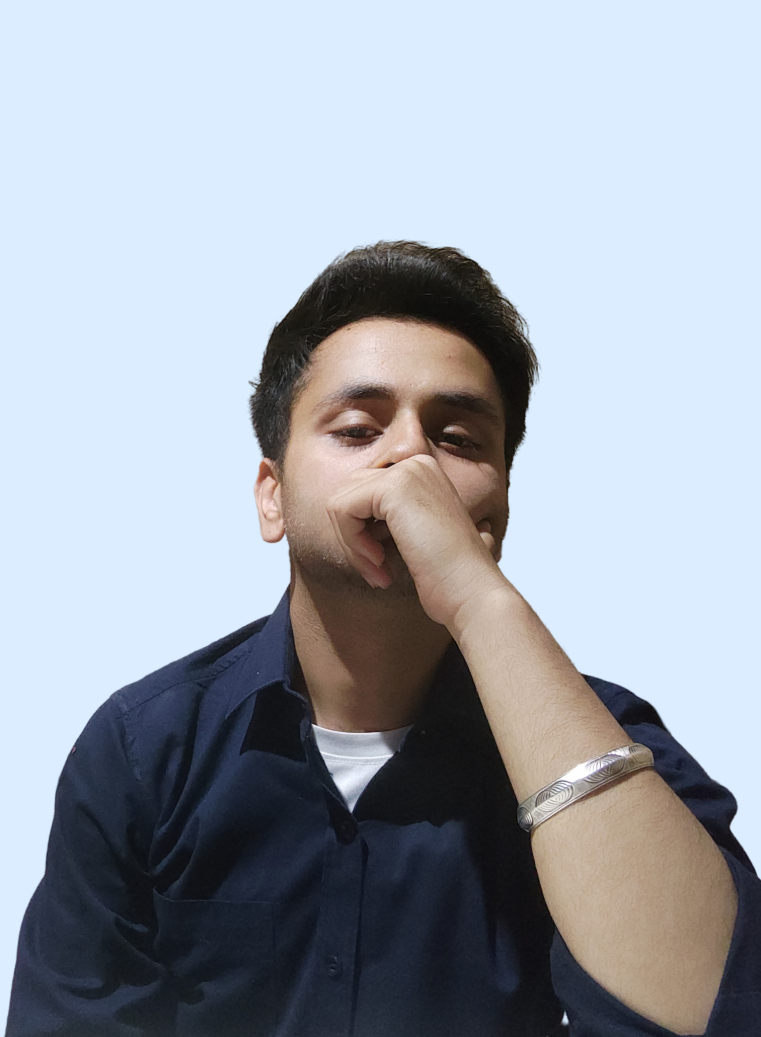
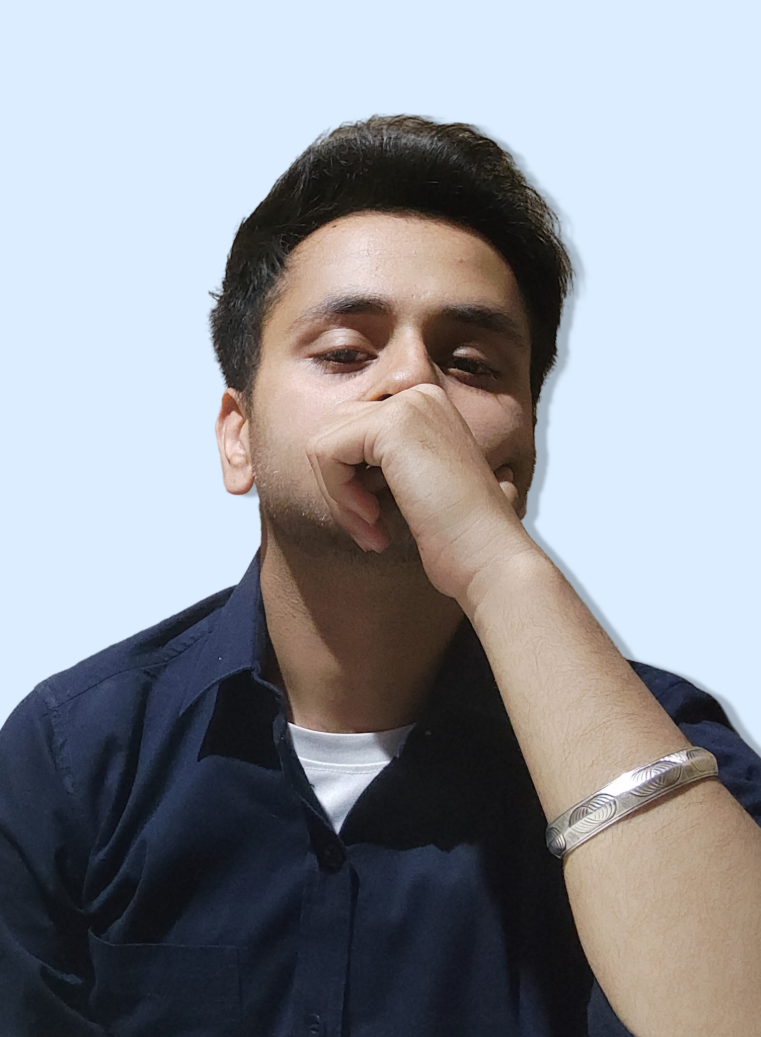
edited

diff --git a/src/pages/Home.js b/src/pages/Home.js
@@ -1,8 +1,13 @@
 import React from "react";
+
 // import images
+
 // import links
+
 import meImg from "../img/home/me.png";
+
 // import Link
+
 import { Link } from "react-router-dom";
 
 const Home = () => {
@@ -10,24 +15,30 @@ const Home = () => {
     <section className="section ">
       <div className="container mx-auto h-full relative">
         {/* text & image wrapper*/}
+
         <div className="flex flex-col justify-center ">
           {/* text */}
+
           <div className="w-full pt-36 pb-14 lg:pt-0 lg:pb-0 lg:w-auto z-10 lg:absolute flex flex-col justify-center items-center lg:items-start">
             <h1 className="h1">
               web developer
               <br />& Designer
             </h1>
+
             <p className="text-[26px] lg:text-[36px] font-primary mb-4 lg:mb-12">
               India
             </p>
+
             <Link to={"/contact"} className="btn mb-[30px] ">
               hire me
             </Link>
           </div>
+
           {/* image */}
+
           <div className="flex justify-end max-h-96 lg:max-h-max">
             <div className="relative lg:-right-40 overflow-hidden">
-              <img className="w-[390] h-[531]" src={meImg} alt="woman" />
+              <img src={meImg} alt="man" />
             </div>
           </div>
         </div>

diff --git a/src/index.css b/src/index.css
@@ -7,10 +7,10 @@
     @apply overflow-hidden text-primary font-secondary bg-white;
   }
   .h1 {
-    @apply text-[54px] lg:text-[103px] font-primary font-bold capitalize leading-[120%] tracking-[-0.05em] mb-2;
+    @apply text-[54px] lg:text-[108px] font-primary font-bold capitalize leading-[120%] tracking-[-0.05em] mb-2;
   }
   .section {
-    @apply h-screen relative;
+    @apply h-screen w-screen;
   }
   .btn {
     @apply py-[18px] px-[50px] h-[66px] flex items-center justify-center text-base uppercase font-secondary font-semibold bg-primary text-white;
